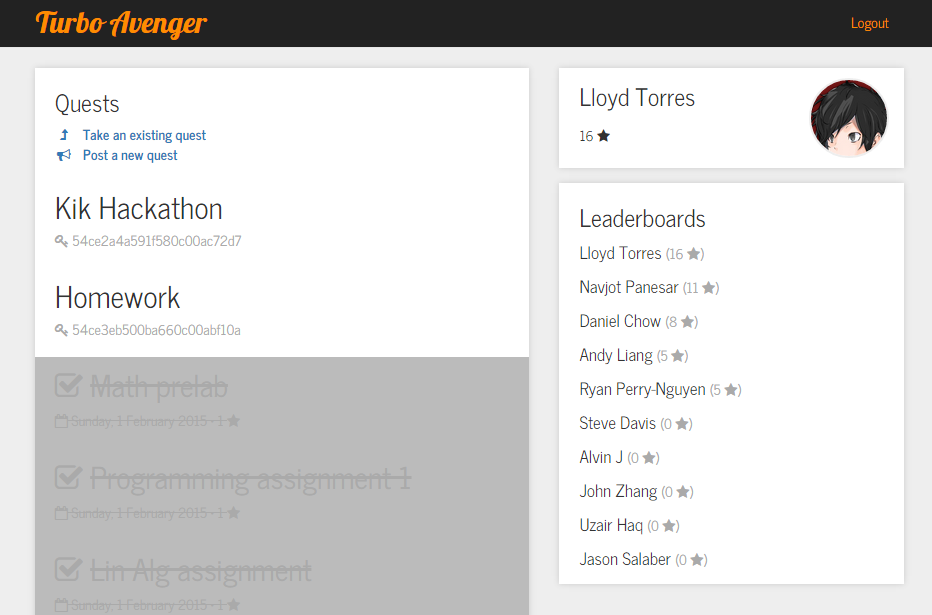
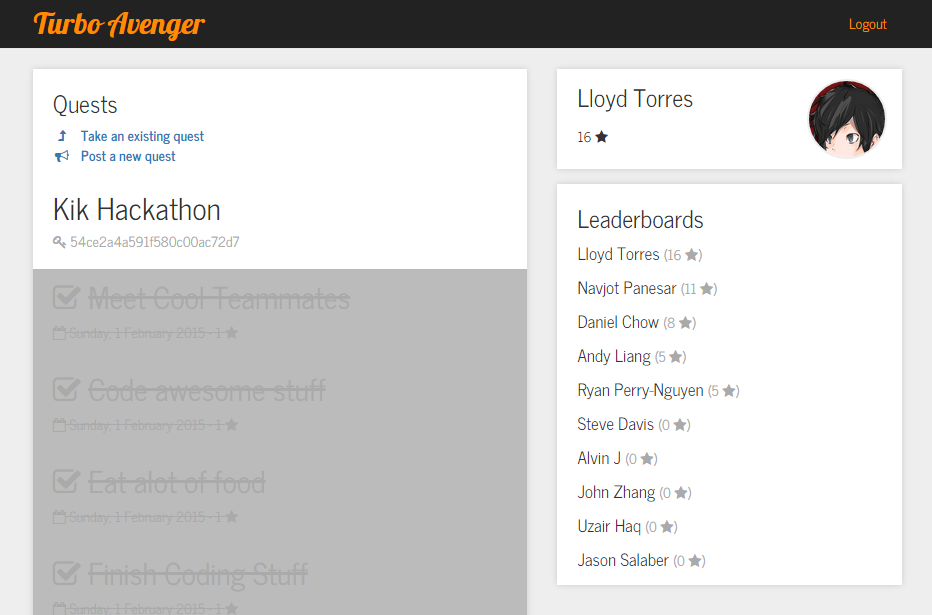
Add new content to Turbo Avenger

diff --git a/turboavenger.md b/turboavenger.md
@@ -20,18 +20,22 @@ sequence: -10
 
 <script>
 $(function() {
-    $(".rslides").responsiveSlides({timeout: 3500, maxwidth:500});
+    $(".rslides").responsiveSlides({timeout: 5000, maxwidth:500});
 });
 </script>
 
 <ul class="rslides">
     <li>
         <img src="/images/projects/turboavenger/turboavenger1.png"/>
-        <p class="caption">Turbo Avenger's login page.</p>
+        <p class="caption">Login to Turbo Avenger with your Google account!</p>
     </li>
     <li>
         <img src="/images/projects/turboavenger/turboavenger2.png"/>
-        <p class="caption">Getting ahead on Turbo Avenger!</p>
+        <p class="caption">Get ahead on your quests with Turbo Avenger!</p>
+    </li>
+    <li>
+        <img src="/images/projects/turboavenger/turboavenger3.png"/>
+        <p class="caption">Create new quests and tasks for you and your friends!</p>
     </li>
 </ul>
 
@@ -39,6 +43,6 @@ $(function() {
 
 <p>The app was inspired by the one problem every student has faced: procrastination. As humans, we are naturally tempted to [finish later]</p>
 
-<p>To solve this, Turbo Avenger lets users to sign up for quests (i.e. tasks) with their friends. Each quest is split up into challenges. Users gain points when they finish their challenges ahead of time. Users can then compete with each other to see who can conquer challenges the fastest. In fact, users can see how everyone is doing on a global leaderboard. Thus, Turbo Avenger fights the great temptation of procrastination with another human trait: competition.</p>
+<p>To solve this, Turbo Avenger lets users to sign up for quests (i.e. lists of to-dos) with their friends. Each quest is split up into tasks. Users gain points when they finish their tasks ahead of time. Users can then compete with each other to see who can conquer challenges the fastest. In fact, users can see how everyone is doing on a global leaderboard. Thus, Turbo Avenger fights the great temptation of procrastination with another human trait: competition.</p>
 
 <p>I built the frontend of the site from scratch with the help of Bootstrap. Once the site's static templates and formatting were done, I had a crash course on AngularJS, which we used to interact with the backend database. I also used bits of pieces of jQuery to make the site more responsive to user actions. AngularJS and jQuery allowed me to bring life to a static website, and it was a fun (and occasionally frustrating) learning experience to use them both on the fly.</p>
